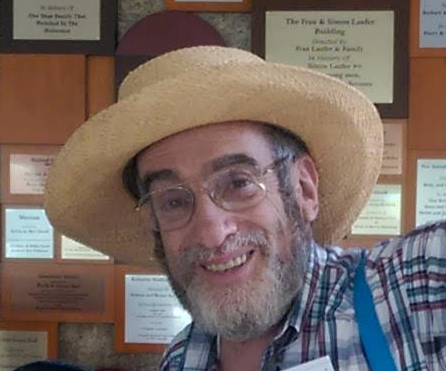
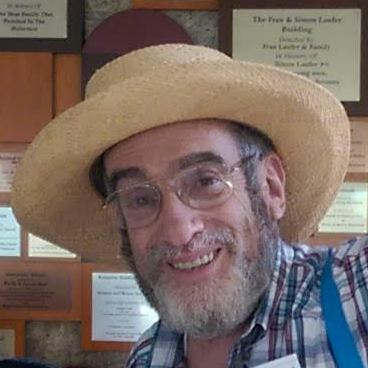
add guestbook modal; resize image;

diff --git a/shiva.html b/shiva.html
@@ -29,10 +29,15 @@ permalink: /shiva
             <p>
             <h3><p>Virtual shiva will be observed in loving memory of KB the week of April 19th, 2020.</p>
                 Shiva details are below.</h3>
+
+            <!-- Button trigger modal -->
+<button type="button" class="btn btn-primary" data-toggle="modal" data-target="#exampleModalLong">
+  Share your thoughts and memories
+</button>
  
              <hr style="border: 1px solid white;" align="center" width="50%"> 
             <div class="center">
-            <table class="table table-dark table-hover table-sm table-responsive-sm schedule">
+            <table style="    width:86%; margin-left:7%; margin-right:7%;" class="table table-dark table-hover table-sm table-responsive-sm schedule">
               <thead class="thead-dark">
                 <tr>
                     <th>
@@ -202,6 +207,38 @@ permalink: /shiva
         </div>
 
         </div>
+
+<!-- Modal -->
+<div class="modal fade" id="exampleModalLong" tabindex="-1" role="dialog" aria-labelledby="exampleModalLongTitle" aria-hidden="true">
+  <div class="modal-dialog" role="document">
+    <div class="modal-content">
+      <div class="modal-header">
+        <h5 class="modal-title" id="exampleModalLongTitle">Thoughts and Memories</h5>
+        <button type="button" class="close" data-dismiss="modal" aria-label="Close">
+          <span aria-hidden="true">&times;</span>
+        </button>
+      </div>
+      <div class="modal-body">
+        <!-- Bravenet Embedded Service Code -->
+<script src="https://apps.bravenet.com/go.js?service=guestbook;id=1;usernum=316335772" type="text/javascript" charset="utf-8"></script>
+      </div>
+      <div class="modal-footer">
+        <button type="button" class="btn btn-secondary" data-dismiss="modal">Close</button>
+        <button type="button" class="btn btn-primary">Save changes</button>
+      </div>
+    </div>
+  </div>
+</div>
+
+
+<script src="https://code.jquery.com/jquery-3.2.1.slim.min.js" integrity="sha384-KJ3o2DKtIkvYIK3UENzmM7KCkRr/rE9/Qpg6aAZGJwFDMVNA/GpGFF93hXpG5KkN" crossorigin="anonymous"></script>
+<script src="https://cdnjs.cloudflare.com/ajax/libs/popper.js/1.12.9/umd/popper.min.js" integrity="sha384-ApNbgh9B+Y1QKtv3Rn7W3mgPxhU9K/ScQsAP7hUibX39j7fakFPskvXusvfa0b4Q" crossorigin="anonymous"></script>
+<script src="https://maxcdn.bootstrapcdn.com/bootstrap/4.0.0/js/bootstrap.min.js" integrity="sha384-JZR6Spejh4U02d8jOt6vLEHfe/JQGiRRSQQxSfFWpi1MquVdAyjUar5+76PVCmYl" crossorigin="anonymous"></script>
+<script>
+            $('#myModal').on('shown.bs.modal', function () {
+                $('#myInput').trigger('focus')
+                })
+</script>
 
     </body>
 </html>
